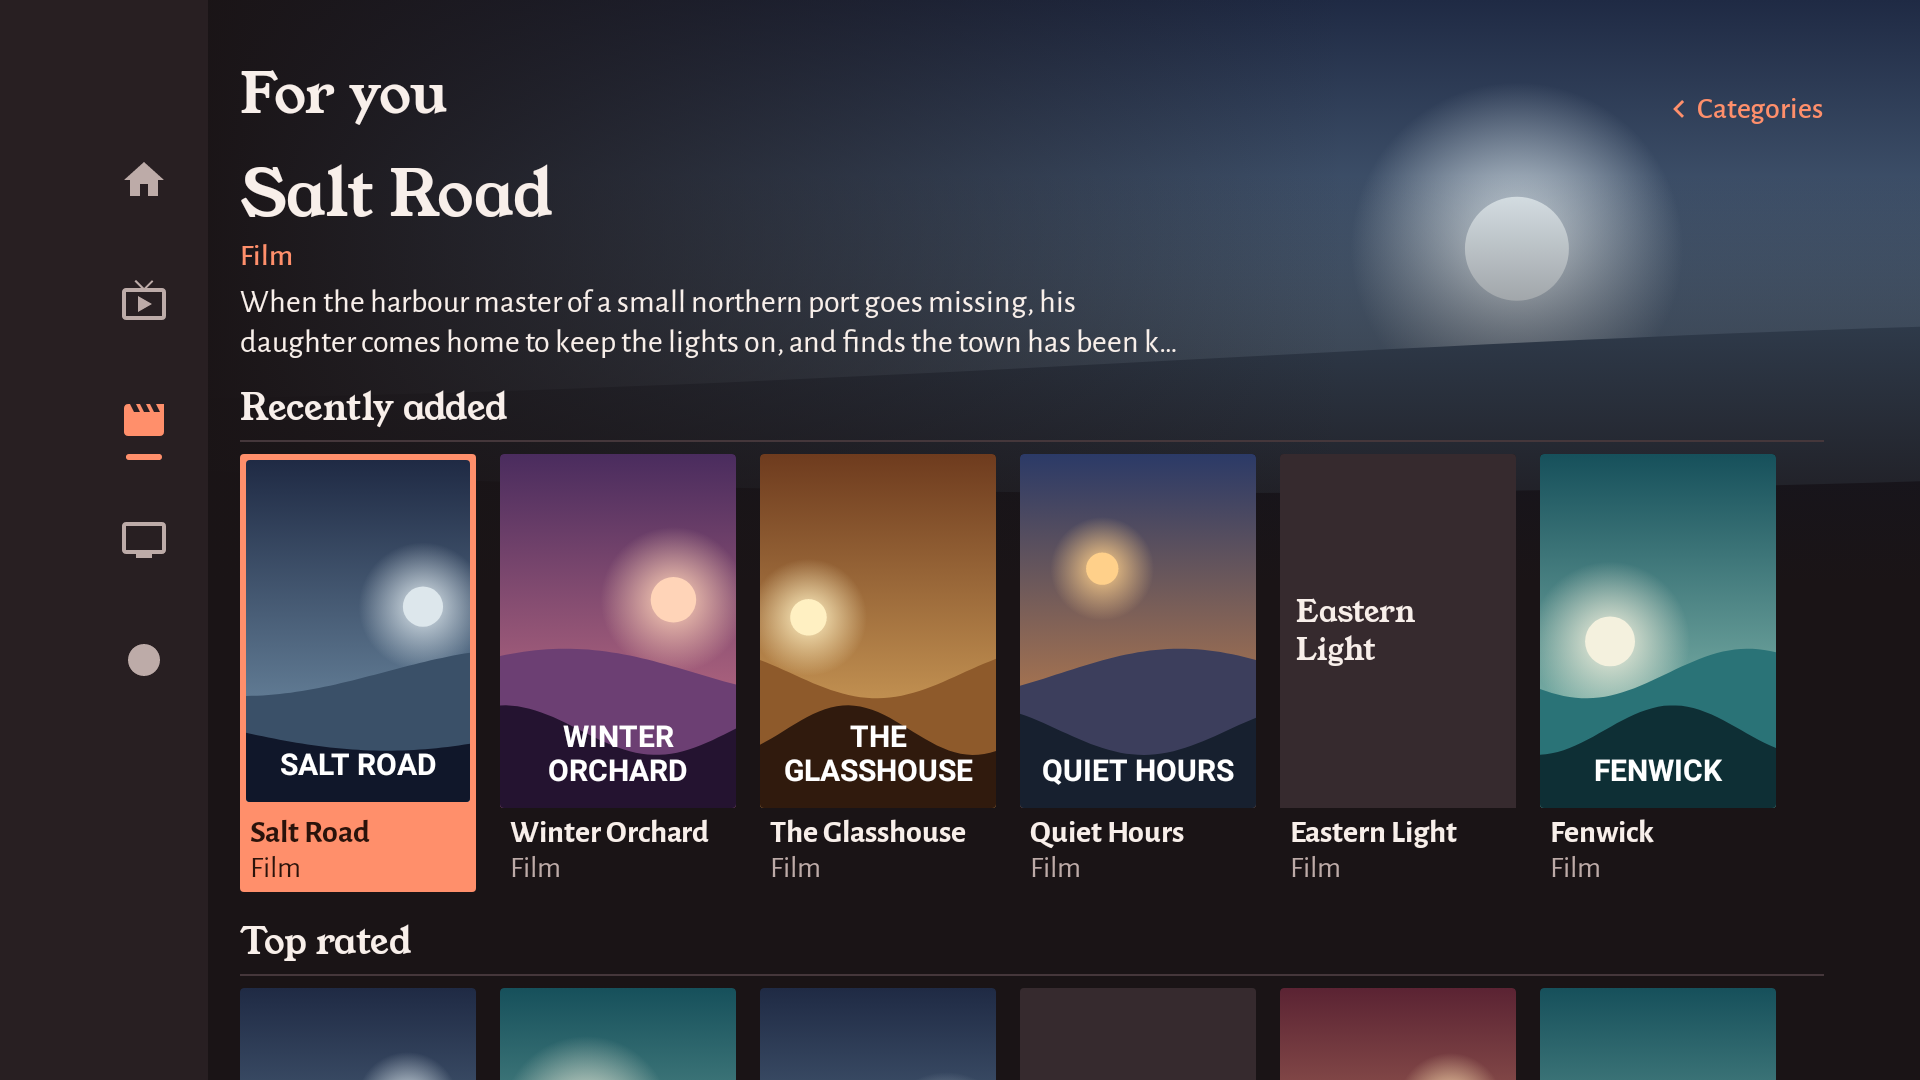
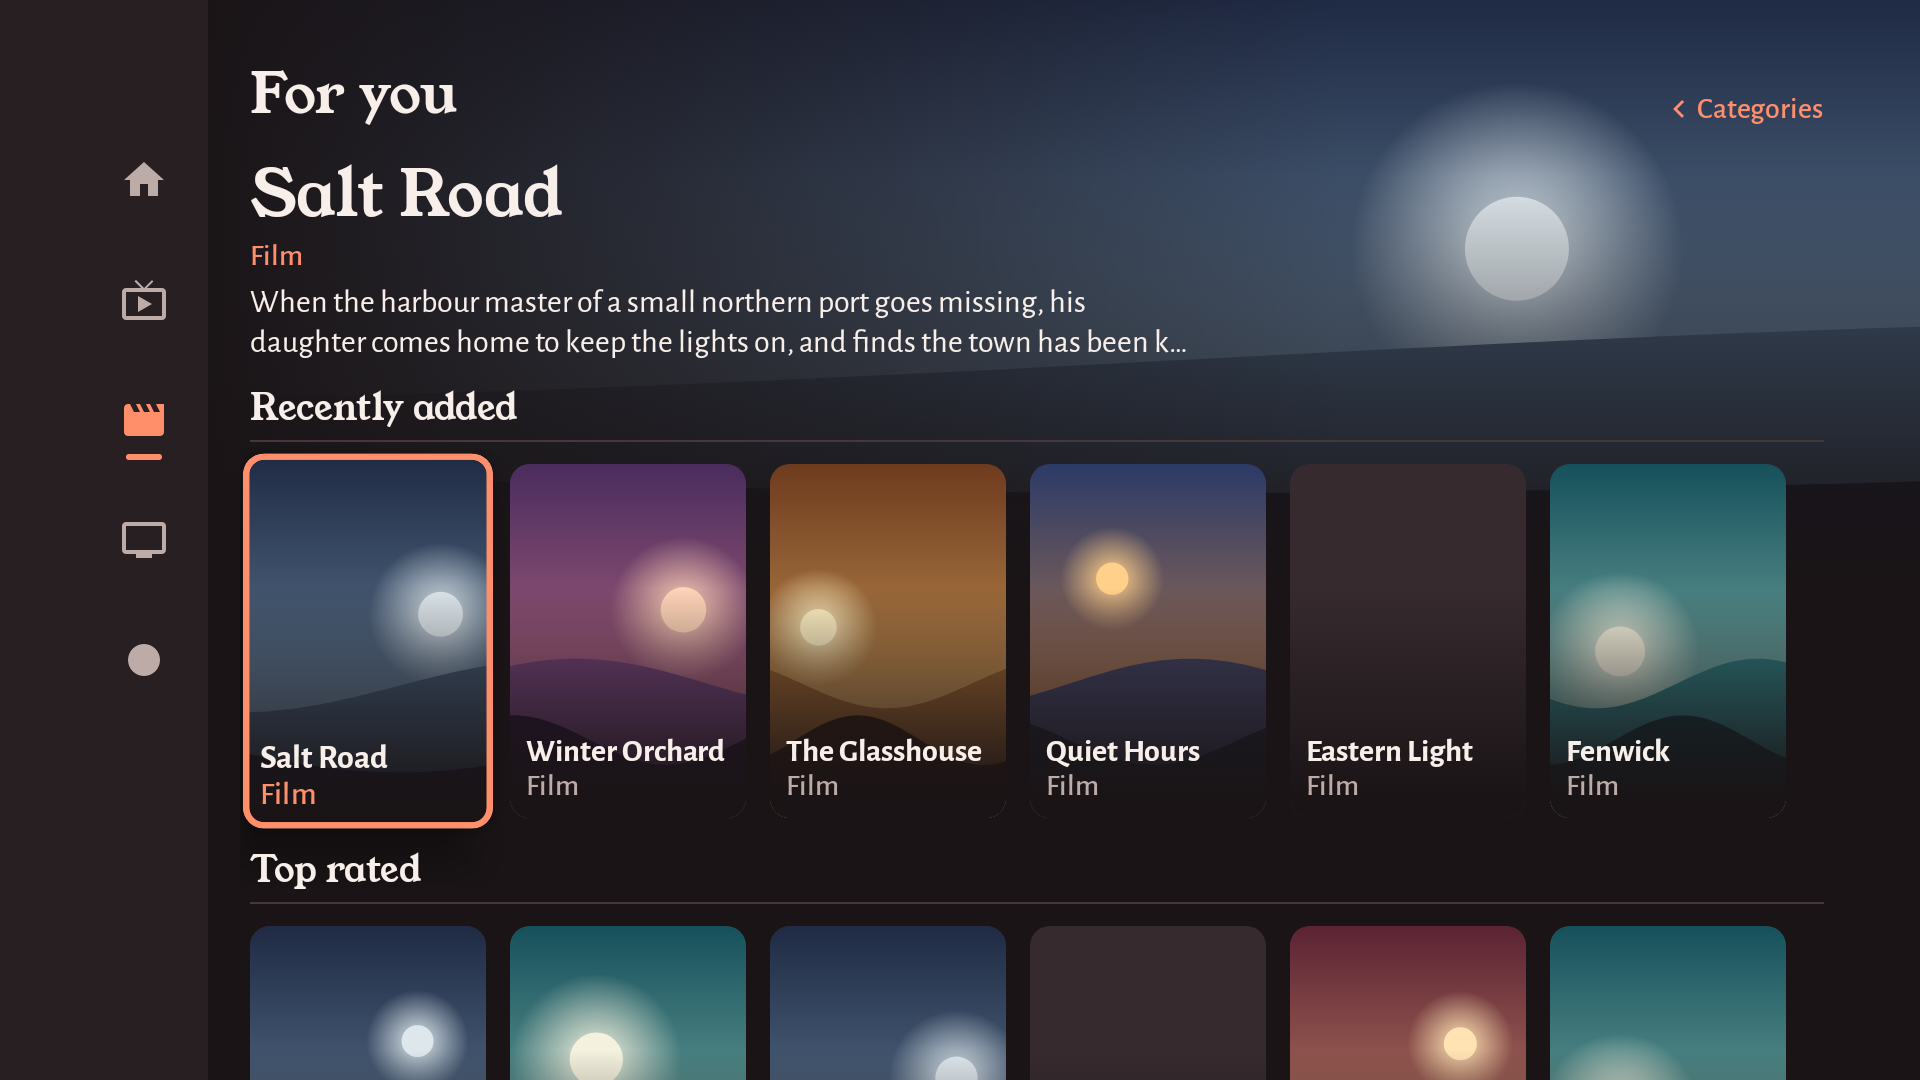
chore(#89): give direction E rounded cards and portrait covers
Picture House's rounded cards with text on the art and pill buttons, with the
guide left ruled and square. The whole Live Preview is one selectable block,
with no banner. Cover art is portrait; anything showing progress is landscape.

diff --git a/app/src/main/java/app/opentv/ui/directions/DirectionCombined.kt b/app/src/main/java/app/opentv/ui/directions/DirectionCombined.kt
@@ -6,6 +6,7 @@
 package app.opentv.ui.directions
 
 import androidx.compose.foundation.background
+import androidx.compose.foundation.border
 import androidx.compose.foundation.horizontalScroll
 import androidx.compose.foundation.layout.Arrangement
 import androidx.compose.foundation.layout.Box
@@ -36,9 +37,11 @@ import androidx.compose.runtime.setValue
 import androidx.compose.ui.Alignment
 import androidx.compose.ui.Modifier
 import androidx.compose.ui.draw.clip
+import androidx.compose.ui.draw.shadow
 import androidx.compose.ui.focus.onFocusChanged
 import androidx.compose.ui.graphics.Brush
 import androidx.compose.ui.graphics.Color
+import androidx.compose.ui.graphics.graphicsLayer
 import androidx.compose.ui.input.key.Key
 import androidx.compose.ui.input.key.KeyEventType
 import androidx.compose.ui.input.key.key
@@ -50,9 +53,10 @@ import androidx.compose.ui.unit.dp
 import androidx.compose.ui.unit.sp
 
 /*
- * E: the owner's combination from the first round. Picture House's colours, Hearth's type and larger
- * first card, Lamplight's thumbnails, Listings' Live Preview and ruled guide, Picture House's Shows
- * and details layouts, and square corners rather than rounded rectangles everywhere.
+ * E: the owner's combination from the first round. Picture House's colours, rounded cards with text
+ * on the art, pill buttons, and Shows and details layouts; Hearth's type and larger first card; and
+ * Listings' ruled, square guide and its layout for the Live Preview. Cover art is portrait, and
+ * anything showing progress is landscape.
  *
  * Providers carry around 100k titles, so Live TV, Movies and Shows get a categories sidebar. It
  * stays tucked away until Left from the leftmost item opens it, so no press is added on the way to a
@@ -70,6 +74,10 @@ private val OnCoral = Color(0xFF2A130B)
 private val Title = YoungSerif
 private val Body = Alegreya
 private val Corner = RoundedCornerShape(2.dp)
+private val Card = RoundedCornerShape(10.dp)
+private const val COVER = 2f / 3f
+private const val STILL = 16f / 9f
+private val CoverWidth = 118.dp
 
 private data class Category(val name: String, val count: String)
 
@@ -244,7 +252,7 @@ private fun CategoryHeader(name: String, count: String, unit: String, open: Bool
 
 @Composable
 private fun Heading(text: String) {
-    Column(Modifier.fillMaxWidth().padding(end = 48.dp)) {
+    Column(Modifier.fillMaxWidth().padding(start = 5.dp, end = 48.dp)) {
         OneLine(text, Ink, 18, Title)
         Spacer(Modifier.height(3.dp))
         Box(Modifier.fillMaxWidth().height(1.dp).background(Rule))
@@ -259,42 +267,53 @@ private fun statusText(item: Item): String = when (val watch = item.watch) {
     else -> "${item.sub}  ·  ${watch.label()}"
 }
 
+private fun Modifier.lifted(focused: Boolean, scale: Float = 1.06f): Modifier =
+    if (focused) {
+        graphicsLayer {
+            scaleX = scale
+            scaleY = scale
+        }
+            .shadow(14.dp, Card)
+            .border(3.dp, Coral, Card)
+    } else {
+        this
+    }
+
+/** Picture House's card: rounded, with the text on the art behind a gradient painted on the card. */
 @Composable
-private fun NoArt(title: String) {
+private fun ArtCard(item: Item, focused: Boolean, ratio: Float) {
     Box(
         Modifier
-            .fillMaxSize()
-            .background(Raised)
-            .padding(8.dp),
-        contentAlignment = Alignment.Center,
+            .fillMaxWidth()
+            .aspectRatio(ratio)
+            .lifted(focused)
+            .clip(Card)
+            .background(Raised),
     ) {
-        Text(title, color = Ink, fontFamily = Title, fontSize = 15.sp, lineHeight = 19.sp, maxLines = 3)
-    }
-}
-
-/** Lamplight's thumbnail in coral: art with its text underneath, and the whole card fills on focus. */
-@Composable
-private fun Thumbnail(item: Item, focused: Boolean, ratio: Float, poster: Boolean = false) {
-    Column(
-        Modifier
-            .clip(Corner)
-            .background(if (focused) Coral else Bg),
-    ) {
-        Box(Modifier.fillMaxWidth().aspectRatio(ratio).padding(if (focused) 3.dp else 0.dp)) {
-            if (item.seed != null) {
-                Art(item.seed, Modifier.fillMaxSize().clip(Corner), if (poster) item.title else null)
-            } else {
-                NoArt(item.title)
-            }
-            val watch = item.watch
-            if (watch is Watch.InProgress) {
-                ProgressLine(watch.fraction, Raised, Coral, Modifier.align(Alignment.BottomCenter), 4.dp)
-            }
+        if (item.seed != null) Art(item.seed, Modifier.fillMaxSize())
+        Box(
+            Modifier.fillMaxSize().background(
+                Brush.verticalGradient(0.35f to Bg.copy(alpha = 0f), 0.95f to Bg),
+            ),
+        )
+        Column(Modifier.align(Alignment.BottomStart).padding(horizontal = 8.dp, vertical = 7.dp)) {
+            Text(
+                item.title,
+                color = Ink,
+                fontFamily = Body,
+                fontWeight = FontWeight.Bold,
+                fontSize = 16.sp,
+                lineHeight = 18.sp,
+                maxLines = 2,
+                overflow = TextOverflow.Ellipsis,
+            )
+            OneLine(statusText(item), if (focused) Coral else Soft, 15, Body, weight = FontWeight.Medium)
         }
-        Column(Modifier.padding(horizontal = 5.dp, vertical = 3.dp)) {
-            OneLine(item.title, if (focused) OnCoral else Ink, 16, Body, weight = FontWeight.Bold)
-            OneLine(statusText(item), if (focused) OnCoral else Soft, 15, Body)
+        val watch = item.watch
+        if (watch is Watch.InProgress) {
+            ProgressLine(watch.fraction, Raised, Coral, Modifier.align(Alignment.BottomCenter), 4.dp)
         }
+        if (focused) Box(Modifier.fillMaxSize().border(3.dp, Coral, Card))
     }
 }
 
@@ -311,7 +330,7 @@ private fun Home(preview: Boolean) = WithRail(Bg, { Rail(0) }) {
         Column {
             Heading("Continue Watching")
             Row(
-                Modifier.horizontalScroll(rememberScrollState()).padding(end = 48.dp),
+                Modifier.horizontalScroll(rememberScrollState()).padding(start = 5.dp, end = 48.dp, top = 5.dp, bottom = 5.dp),
                 horizontalArrangement = Arrangement.spacedBy(12.dp),
                 verticalAlignment = Alignment.Bottom,
             ) {
@@ -319,7 +338,7 @@ private fun Home(preview: Boolean) = WithRail(Bg, { Rail(0) }) {
                     Tile(
                         Modifier.width(if (index == 0 && !preview) 300.dp else 186.dp),
                         initial = index == 0 && !preview,
-                    ) { focused -> Thumbnail(item, focused, 16f / 9f) }
+                    ) { focused -> ArtCard(item, focused, STILL) }
                 }
             }
         }
@@ -328,61 +347,59 @@ private fun Home(preview: Boolean) = WithRail(Bg, { Rail(0) }) {
     }
 }
 
+/** Cover art, so portrait, as on the Shows and Movies tabs. Only progress earns a landscape still. */
 @Composable
 private fun HomeRow(title: String, items: List<Item>) {
     Column {
         Heading(title)
         Row(
-            Modifier.horizontalScroll(rememberScrollState()).padding(end = 48.dp),
+            Modifier.horizontalScroll(rememberScrollState()).padding(start = 5.dp, end = 48.dp, top = 5.dp, bottom = 5.dp),
             horizontalArrangement = Arrangement.spacedBy(12.dp),
         ) {
             items.forEach { item ->
-                Tile(Modifier.width(186.dp)) { focused -> Thumbnail(item, focused, 16f / 9f) }
+                Tile(Modifier.width(CoverWidth)) { focused -> ArtCard(item, focused, COVER) }
             }
         }
     }
 }
 
-/** Listings' Live Preview: only after live playback, so Home without it opens on Continue Watching. */
+/**
+ * Listings' layout for the Live Preview, selected as one block as in Picture House. Only after live
+ * playback, so Home without it opens on Continue Watching.
+ */
 @Composable
 private fun LivePreview() {
     val channel = ProtoData.channels.first()
-    Column(Modifier.padding(end = 48.dp)) {
-        Row(Modifier.fillMaxWidth().height(138.dp)) {
-            Art(ProtoData.LIVE_SEED, Modifier.fillMaxHeight().aspectRatio(16f / 9f).clip(Corner))
+    Tile(Modifier.padding(start = 5.dp, end = 48.dp).fillMaxWidth(), initial = true) { focused ->
+        Row(
+            Modifier
+                .fillMaxWidth()
+                .height(138.dp)
+                .lifted(focused, 1.02f)
+                .clip(Card)
+                .background(if (focused) Raised else Panel),
+        ) {
+            Art(ProtoData.LIVE_SEED, Modifier.fillMaxHeight().aspectRatio(STILL))
             Spacer(Modifier.width(18.dp))
-            Column(Modifier.weight(1f)) {
+            Column(Modifier.weight(1f).padding(top = 10.dp, end = 18.dp)) {
                 OneLine(ProtoData.liveProgramme, Ink, 28, Title)
-                OneLine("${channel.name}  ·  ${ProtoData.liveTimes}", Coral, 15, Body, weight = FontWeight.Medium)
-                Spacer(Modifier.height(6.dp))
+                Spacer(Modifier.height(4.dp))
+                Row(verticalAlignment = Alignment.CenterVertically) {
+                    LogoTile(channel, 24.dp, fontFamily = Title)
+                    Spacer(Modifier.width(8.dp))
+                    OneLine("${channel.name}  ·  ${ProtoData.liveTimes}", Coral, 15, Body, weight = FontWeight.Medium)
+                }
+                Spacer(Modifier.height(8.dp))
                 ProgressLine(ProtoData.LIVE_PROGRESS, Rule, Coral)
-                Spacer(Modifier.height(6.dp))
+                Spacer(Modifier.height(8.dp))
                 Text(
                     ProtoData.liveBlurb,
                     color = Soft,
                     fontFamily = Body,
                     fontSize = 16.sp,
                     lineHeight = 21.sp,
-                    maxLines = 3,
+                    maxLines = 2,
                 )
-            }
-        }
-        Spacer(Modifier.height(6.dp))
-        Tile(Modifier.fillMaxWidth(), initial = true) { focused ->
-            Row(
-                Modifier
-                    .fillMaxWidth()
-                    .height(44.dp)
-                    .clip(Corner)
-                    .background(if (focused) Coral else Panel)
-                    .padding(horizontal = 8.dp),
-                verticalAlignment = Alignment.CenterVertically,
-            ) {
-                LogoTile(channel, 32.dp, fontFamily = Title)
-                Spacer(Modifier.width(10.dp))
-                OneLine("Back to ${channel.name}", if (focused) OnCoral else Ink, 18, Title)
-                Spacer(Modifier.weight(1f))
-                OneLine(ProtoData.liveTimes, if (focused) OnCoral else Soft, 15, Body)
             }
         }
     }
@@ -503,17 +520,18 @@ private fun Browse(movies: Boolean, open: Boolean) {
                     Spacer(Modifier.width(14.dp))
                 }
                 Column(Modifier.weight(1f).fillMaxHeight().padding(top = 27.dp)) {
-                    Box(Modifier.padding(end = 48.dp)) {
+                    Box(Modifier.padding(start = 5.dp, end = 48.dp)) {
                         CategoryHeader(categories[selected].name, categories[selected].count, unit, isOpen)
                     }
                     Spacer(Modifier.height(8.dp))
-                    OneLine(lead.title, Ink, 32, Title, Modifier.padding(end = 48.dp))
+                    OneLine(lead.title, Ink, 32, Title, Modifier.padding(start = 5.dp, end = 48.dp))
                     OneLine(
                         if (lead.watch == Watch.Unwatched) lead.sub else "${lead.sub}  ·  ${statusText(lead)}",
                         Coral,
                         15,
                         Body,
-                        weight = FontWeight.Medium,
+                        Modifier.padding(start = 5.dp),
+                        FontWeight.Medium,
                     )
                     Spacer(Modifier.height(4.dp))
                     Text(
@@ -524,7 +542,7 @@ private fun Browse(movies: Boolean, open: Boolean) {
                         lineHeight = 20.sp,
                         maxLines = 2,
                         overflow = TextOverflow.Ellipsis,
-                        modifier = Modifier.width(470.dp),
+                        modifier = Modifier.padding(start = 5.dp).width(470.dp),
                     )
                     Spacer(Modifier.height(10.dp))
                     Column(
@@ -533,7 +551,7 @@ private fun Browse(movies: Boolean, open: Boolean) {
                             .fillMaxWidth()
                             .verticalScroll(rememberScrollState())
                             .padding(bottom = 27.dp),
-                        verticalArrangement = Arrangement.spacedBy(12.dp),
+                        verticalArrangement = Arrangement.spacedBy(8.dp),
                     ) {
                         if (selected == 0) {
                             PosterRow("Recently added", first, !open, { lead = it }, { isOpen = true }) { nav(Screen.DETAILS) }
@@ -543,7 +561,7 @@ private fun Browse(movies: Boolean, open: Boolean) {
                         } else {
                             val perRow = if (isOpen) 4 else 5
                             (first + second).chunked(perRow).forEachIndexed { row, items ->
-                                Row(Modifier.padding(end = 48.dp), horizontalArrangement = Arrangement.spacedBy(12.dp)) {
+                                Row(Modifier.padding(start = 5.dp, end = 48.dp, top = 5.dp, bottom = 5.dp), horizontalArrangement = Arrangement.spacedBy(12.dp)) {
                                     items.forEachIndexed { index, item ->
                                         PosterTile(
                                             item,
@@ -575,7 +593,7 @@ private fun PosterRow(
     Column {
         Heading(title)
         Row(
-            Modifier.horizontalScroll(rememberScrollState()).padding(end = 48.dp),
+            Modifier.horizontalScroll(rememberScrollState()).padding(start = 5.dp, end = 48.dp, top = 5.dp, bottom = 5.dp),
             horizontalArrangement = Arrangement.spacedBy(12.dp),
         ) {
             items.forEachIndexed { index, item ->
@@ -596,12 +614,12 @@ private fun PosterTile(
 ) {
     Tile(
         Modifier
-            .width(118.dp)
+            .width(CoverWidth)
             .then(if (leftmost) Modifier.leftOpens(openSidebar) else Modifier),
         initial = initial,
         onFocused = onFocused,
         onClick = onClick,
-    ) { focused -> Thumbnail(item, focused, 2f / 3f, poster = true) }
+    ) { focused -> ArtCard(item, focused, COVER) }
 }
 
 @Composable
@@ -633,9 +651,12 @@ private fun Details() {
                 Action("☆  Favourite", false)
             }
             Spacer(Modifier.weight(1f))
-            Row(horizontalArrangement = Arrangement.spacedBy(12.dp)) {
+            Row(
+                Modifier.padding(horizontal = 5.dp, vertical = 5.dp),
+                horizontalArrangement = Arrangement.spacedBy(12.dp),
+            ) {
                 ProtoData.episodes.forEach { episode ->
-                    Tile(Modifier.width(158.dp)) { focused -> Thumbnail(episode, focused, 16f / 9f) }
+                    Tile(Modifier.width(158.dp)) { focused -> ArtCard(episode, focused, STILL) }
                 }
             }
         }
@@ -647,9 +668,9 @@ private fun Action(text: String, primary: Boolean) {
     Tile(initial = primary) { focused ->
         Box(
             Modifier
-                .clip(Corner)
+                .clip(RoundedCornerShape(50))
                 .background(if (focused) Coral else Raised)
-                .padding(horizontal = 16.dp, vertical = 9.dp),
+                .padding(horizontal = 20.dp, vertical = 9.dp),
         ) {
             OneLine(text, if (focused) OnCoral else Ink, 17, Body, weight = FontWeight.Bold)
         }

diff --git a/prototype-screenshots/89-directions/index.html b/prototype-screenshots/89-directions/index.html
@@ -76,7 +76,8 @@ tbody th { color: var(--soft); font-weight: 400; white-space: nowrap; }
       <h3>E's costs</h3>
       <ul>
         <li>No press added on the way to a card, but the rail is now two Lefts from the leftmost item, not one.</li>
-        <li>The Live Preview takes about 190dp of Home, so less of Favourites shows without scrolling.</li>
+        <li>The Live Preview takes about 140dp of Home, and with it showing, the status text on Favourites sits below the screen edge until you scroll.</li>
+        <li>Text on the art needs a gradient on every card, which is provisional until #84. Real covers also carry their own titles, which may clash with it.</li>
         <li>The backdrop on Shows and Movies changes on every press and stacks two gradients. It's the costliest part, and provisional until #84.</li>
         <li>The large header leaves room for about one and a half rows of posters.</li>
       </ul>
@@ -86,7 +87,8 @@ tbody th { color: var(--soft); font-weight: 400; white-space: nowrap; }
       <ul>
         <li>Right from the sidebar lands on the nearest row, not the one you left. The real build would need to remember it.</li>
         <li>The grids here are short samples. A real 8,000-title grid needs a lazy list, which hasn't been measured.</li>
-        <li>Coral fills are large and bright. Judge them on a TV in a dark room.</li>
+        <li>Cards are highlighted with a ring and a lift, while the guide and sidebar fill with coral. Check both are obvious from the sofa.</li>
+        <li>Favourite channels have no cover art, so they need their own card if they share Home's Favourites row.</li>
       </ul>
     </div>
   </section>
@@ -144,7 +146,7 @@ const directions = [
   ["b_hearth", "B: Hearth", "Warmest. Amber and brown, a serif with character, the largest artwork, and an amber glow."],
   ["c_listings", "C: Listings", "Type-led, like a printed listings page. Oxblood-black, a slab serif, and a cream marker."],
   ["d_picture_house", "D: Picture House", "Artwork first. Plum-charcoal, a round sans, text on the art, and a coral ring."],
-  ["e_combined", "E: Combined", "Your combination: Picture House's colours and Shows and details layouts, Hearth's type and larger first card, Lamplight's thumbnails, and Listings' Live Preview and guide, with square corners and a categories sidebar."],
+  ["e_combined", "E: Combined", "Your combination: Picture House's colours, rounded cards, pill buttons and Shows and details layouts; Hearth's type and larger first card; Listings' square guide and Live Preview layout; and a categories sidebar. Cover art is portrait, and anything showing progress is landscape."],
 ];
 const combinedOnly = [
   ["guide_categories", "Live guide with categories open"],
